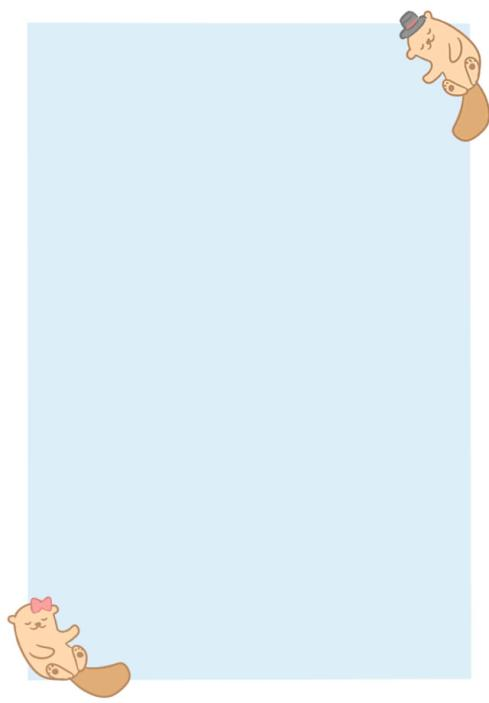
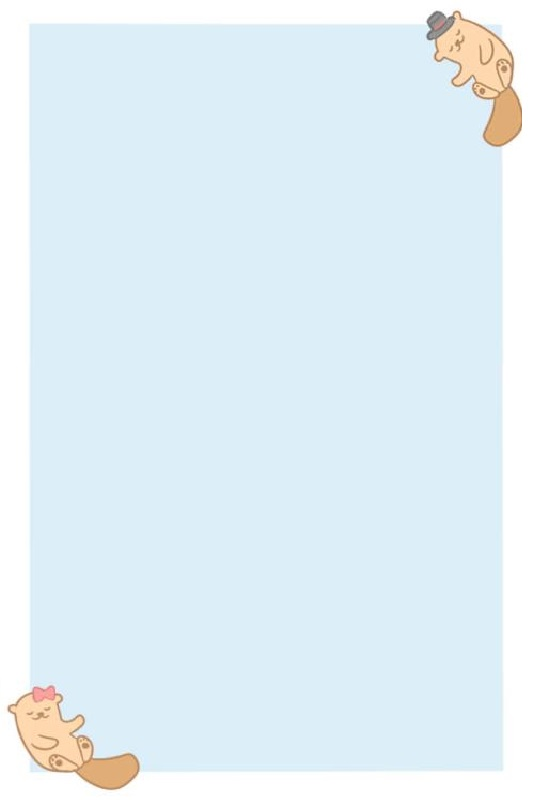
help

Changed region(s): [[0.7975, 0.0, 1.0, 0.9858], [0.0, 0.8364, 0.2761, 1.0]]

diff --git a/index.html b/index.html
@@ -115,12 +115,11 @@ for being born
 I know i can't hold you now
 But hopefully next year i can
 </p>
-      <p class="small text-right"><br>Sincerely yours,<br>Wednesday ♥</p>
+      <p class="small text-right"><br>Sincerely yours,  <br>Wednesday ♥  </p>
     </div>
   </div>
 	<audio src="HappyBdaySong.mp3" autoplay loop id="myAudio"></audio>
 <!-- partial -->
-   <script src="message.js" text="text/javascript"></script>
    <script src="confetti.js-master/confetti.js" text="text/javascript"></script>
    <script>
     var myAudio = document.getElementById("myAudio");

diff --git a/style.css b/style.css
@@ -44,7 +44,7 @@ h4 {
 	transform: translate(-50%,-50%) perspective(2000px);
 	box-shadow: inset 20px 0 50px rgba(0,0,0,0.1), 0 10px 100px rgba(0,0,0,0.2);
 	left:58.5%;
-	background-image: url(letter.jpg);
+	background-image: url(letteridk.jpg);
 	background-size: cover;
 
 }
